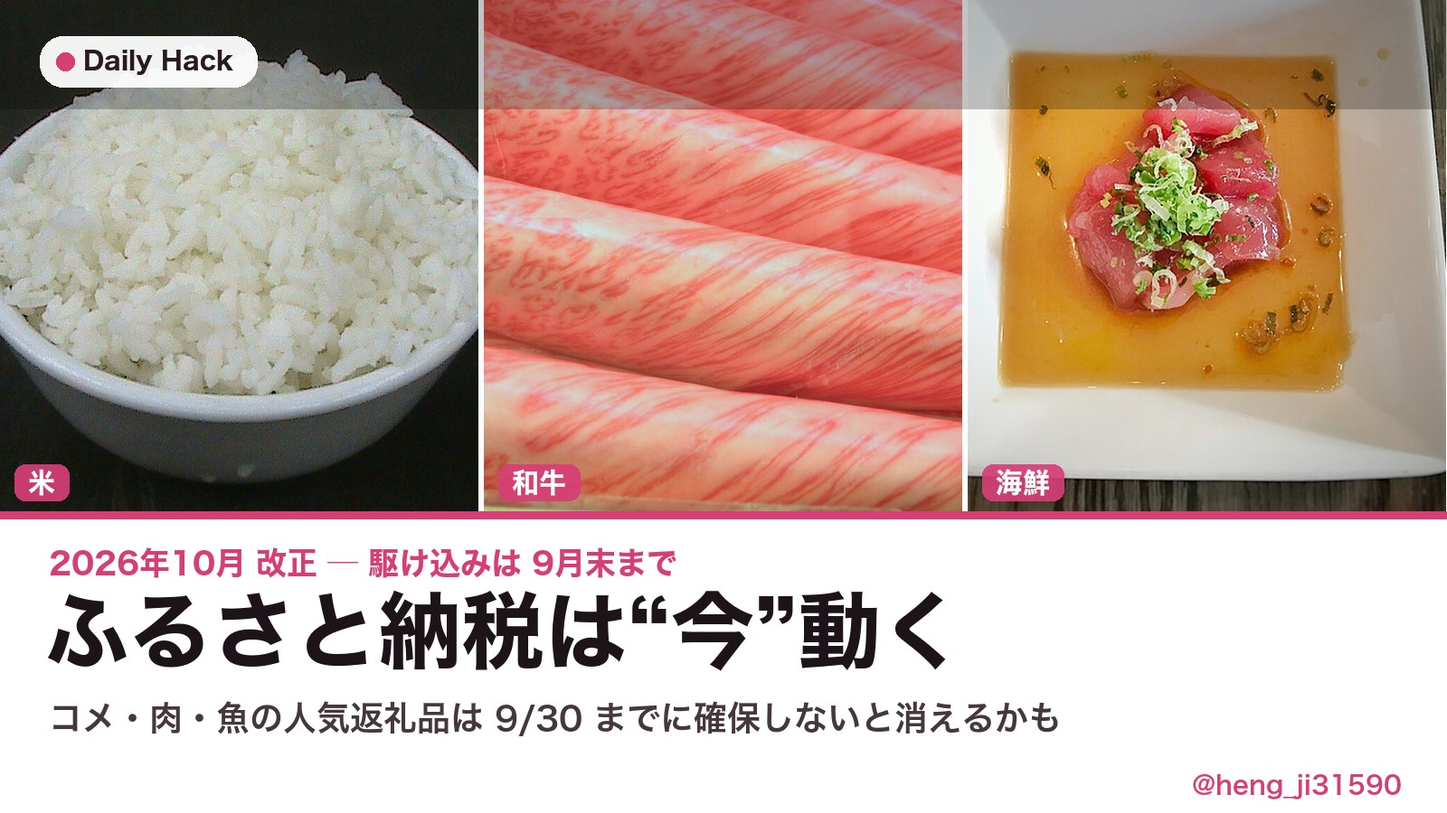
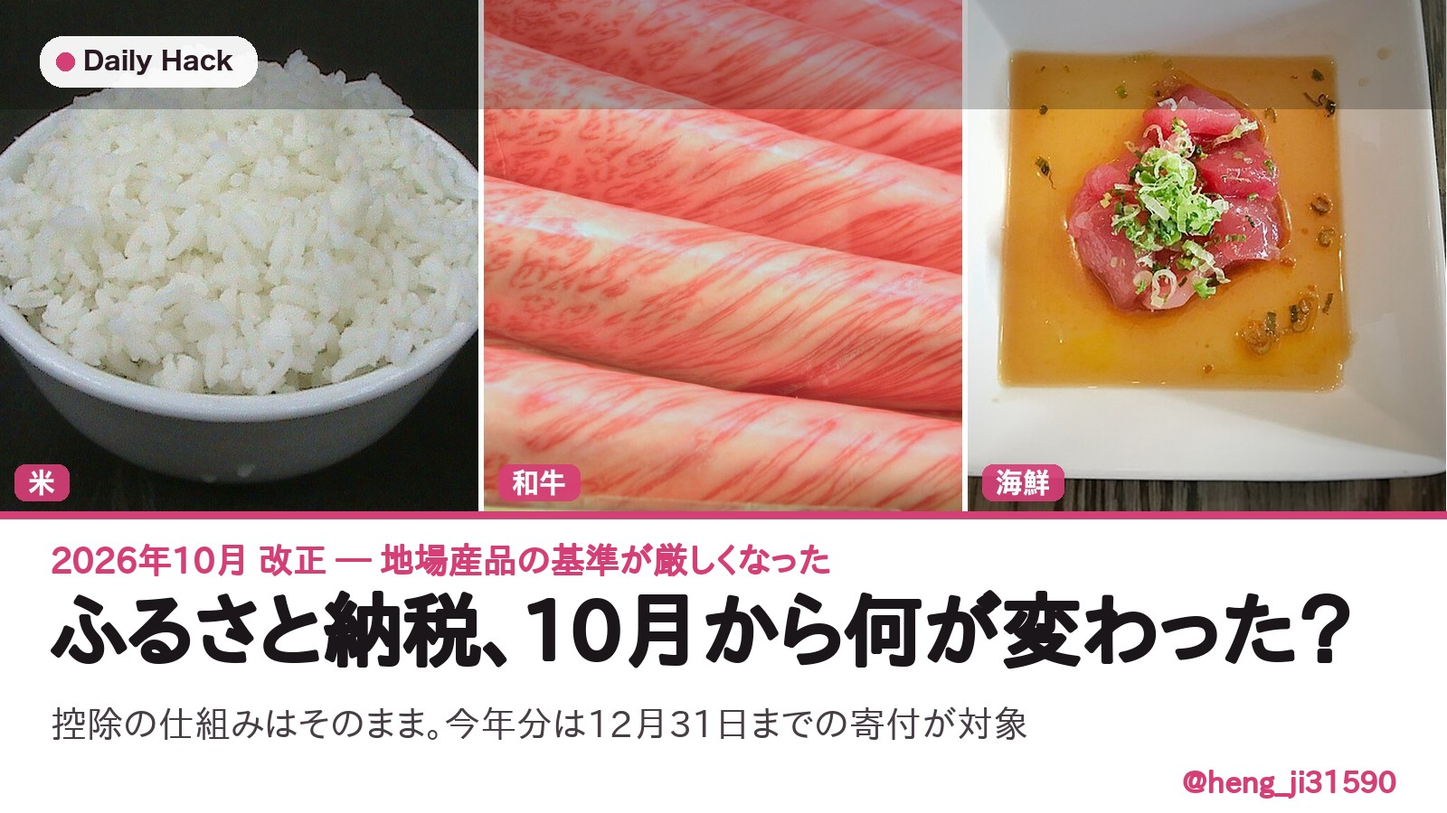
fix: 検索で表示が伸びたのにクリック0の4記事と、ららぽーと記事の題名・見出しを実際の検索語に合わせる
- ふるさと納税: 9/30 期限の内容を 10 月以降向けに書き直し（題名・冒頭・5ステップ・FAQ・まとめ・表紙）
- 東京湾大華火祭: 題名と見出しに「打ち上げ場所」「チケットなし」
- お台場ドローンショー: 全公演終了を題名と見出しに明記、「どこから見える」を見出しに。内部向けの節を削除
- 成田羽田: 「直行便で行ける国・都市一覧」に。題名から「7月時点」を外し本文に残す
- ららぽーと: 大きさ（面積）・店舗数・地域別・一覧（何店舗）の見出しを検索語に合わせ、アンカーを張り直し

根拠は t206（Google の検索候補）と t207（公式ページ）。

Claude-Session: https://claude.ai/code/session_01RqPaqffepEWsiAkvhJEvmW

Changed region(s): [[0.0312, 0.6533, 0.9375, 0.9022], [0.8125, 0.9333, 0.9688, 0.9956]]

diff --git a/scripts/gen-furusato-reform-eyecatch.py b/scripts/gen-furusato-reform-eyecatch.py
@@ -1,0 +1,43 @@
+#!/usr/bin/env python3
+"""ふるさと納税 2026年10月改正の表紙を、10月以降の内容に描き直す（2026-10-04）。
+
+元の表紙は「駆け込みは9月末まで」「9/30 までに確保しないと消えるかも」で、締め切りを過ぎた。
+上段の写真 3 枚（米・和牛・海鮮。出典は記事末の source-note）は元の表紙からそのまま使い、
+下の文字帯だけを描き直す。元画像の写真素材はリポジトリに残っていなかったため。
+
+    python3 scripts/gen-furusato-reform-eyecatch.py <元の表紙> <出力>
+"""
+import sys
+from PIL import Image, ImageDraw, ImageFont
+
+SRC, OUT = sys.argv[1], sys.argv[2]
+B = "/usr/share/fonts/opentype/ipafont-gothic/ipagp.ttf"
+PINK, INK, SUB = (214, 62, 118), (26, 22, 26), (70, 62, 68)
+
+im = Image.open(SRC).convert("RGB")
+W, H = im.size
+d = ImageDraw.Draw(im)
+d.rectangle([0, 575, W, H], fill=(255, 255, 255))   # 下の文字帯（ピンクの線より下）を消す
+
+
+def fit(text, size, maxw):
+    while size > 20:
+        f = ImageFont.truetype(B, size)
+        if d.textlength(text, font=f) <= maxw:
+            return f
+        size -= 2
+    return ImageFont.truetype(B, size)
+
+
+X, MAXW = 56, W - 112
+k = "2026年10月 改正 ─ 地場産品の基準が厳しくなった"
+t = "ふるさと納税、10月から何が変わった？"
+s = "控除の仕組みはそのまま。今年分は12月31日までの寄付が対象"
+d.text((X, 600), k, font=fit(k, 38, MAXW), fill=PINK, stroke_width=1, stroke_fill=PINK)
+d.text((X, 652), t, font=fit(t, 88, MAXW - 8), fill=INK, stroke_width=3, stroke_fill=INK)  # IPA に太字が無いので縁で太らせる
+d.text((X, 780), s, font=fit(s, 40, MAXW), fill=SUB)
+h = "@heng_ji31590"
+fh = ImageFont.truetype(B, 32)
+d.text((W - 56 - d.textlength(h, font=fh), 848), h, font=fh, fill=PINK, stroke_width=1, stroke_fill=PINK)
+im.save(OUT, quality=90)
+print(OUT, im.size)

diff --git a/src/content/posts/furusato-tax-2026-reform-guide.md b/src/content/posts/furusato-tax-2026-reform-guide.md
@@ -1,14 +1,14 @@
 ---
-title: "ふるさと納税2026年10月改正 駆け込みガイド｜“消える返礼品”リストと9月30日までにやる5ステップ"
-description: "2026年10月からふるさと納税の地場産品基準が厳格化。付加価値の過半が区域内でない加工品・工業製品・自治体ロゴ雑貨が返礼品から消える可能性。9月30日までにやるべき駆け込み5ステップと、上限額を超えない安全設計をアタシが解説する。"
+title: "ふるさと納税2026年10月改正｜10月から何が変わった？変更点と年末までにやる5ステップ"
+description: "2026年10月からふるさと納税の地場産品基準が厳格化。付加価値の過半が区域内でない加工品・工業製品・自治体ロゴ雑貨は返礼品にできなくなった。10月以降の変更点と、今年分の締め切り12月31日までにやる5ステップをアタシが解説する。"
 publishDate: 2026-07-04
 category: ["howto", "campaigns"]
-tags: ["ふるさと納税", "2026年改正", "地場産品基準", "駆け込み", "節税", "返礼品", "ワンストップ特例"]
+tags: ["ふるさと納税", "2026年改正", "地場産品基準", "10月以降", "節税", "返礼品", "ワンストップ特例"]
 isPR: true
 draft: false
 featured: true
 eyecatchUrl: "/images/furusato-tax-2026-reform-guide/eyecatch.jpg"
-eyecatchAlt: "ふるさと納税の人気返礼品（米・和牛・海鮮）の写真と、2026年10月改正・駆け込みは9月末までを伝える表紙画像"
+eyecatchAlt: "ふるさと納税の人気返礼品（米・和牛・海鮮）の写真と、2026年10月から何が変わったかを伝える表紙画像"
 author: "hacker-ko"
 source_candidate_id: "C061"
 references:
@@ -16,13 +16,13 @@ references:
   - "https://www.nikkei.com/article/DGXZQOUA23BJA0T20C25A6000000/"
 ---
 
-「ふるさと納税、年末にまとめてやればいいっしょ」——その油断、2026年は通用しないわよ。**10月1日から地場産品の基準が厳しくなる**の。ポイント還元が廃止された（2025年10月）“次の改悪”がこれ。10月以降、**一部の返礼品が掲載終了で消える**可能性が高い。
+「ふるさと納税、10月から何か変わったんでしょ？」「去年と同じ返礼品が見つからないんだけど」——その答えがこれ。**2026年10月から、地場産品の基準が厳しくなった**の。ポイント還元が廃止された（2025年10月）“次の改悪”がこれ。基準に合わない返礼品は、**10月以降は扱えなくなった**。
 
-つまり狙ってた返礼品があるなら、**9月30日までが実質の駆け込み期限**。今日は「何が消えるのか」を先回りでリスト化して、9月末までにやるべき5ステップと、上限額をオーバーしない安全設計まで置いていく。ボーナスで資金に余裕がある今こそ動く時よ 😏
+でも慌てなくていい。**控除の仕組みは変わっていない**し、今年分の締め切りは**12月31日**。今日は「何が変わったのか」と「どのジャンルに影響が出るのか」を整理して、年末までにやる5ステップと、上限額をオーバーしない安全設計まで置いていく 😏
 
 <div class="hakkako-says">
   <div class="hakkako-mascot"><img src="/images/expr-09-arms-crossed.png" alt="Daily Hackマスコット" /></div>
-  <div class="hakkako-quote">先に結論。<strong>「加工品・工業製品・雑貨系」で欲しい返礼品があるなら、9月中に確保しなさい。</strong>米・肉・果物みたいな“ザ・地場産”は影響が小さいけど、県外原料の加工品や自治体ロゴだけの雑貨は10月に消えるリスクが高い。控除の仕組み自体は変わらないから、慌てず上限内でね。</div>
+  <div class="hakkako-quote">先に結論。<strong>影響を受けたのは「加工品・工業製品・雑貨系」。</strong>米・肉・果物みたいな“ザ・地場産”は影響が小さい。去年の返礼品が見当たらないなら、県外原料の加工品や自治体ロゴだけの雑貨だった可能性が高いわ。控除の仕組み自体は変わらないから、慌てず上限内でね。</div>
 </div>
 
 <aside class="related-block">
@@ -55,7 +55,7 @@ references:
   </ul>
 </aside>
 
-## 結論: 2026年10月、ふるさと納税はこう変わる
+## 結論: 2026年10月から、ふるさと納税はこう変わった
 
 まず改正の中身。総務省が地場産品の基準を厳しくする、というのが柱。**「その土地で作った物か」をこれまで以上に厳格に問う**内容よ。
 
@@ -70,7 +70,7 @@ references:
 
 <div class="section-with-mascot">
   <div class="mascot-wrap"><img src="/images/expr-07-gasp.png" alt="" /></div>
-  <h2>“消えるかもしれない返礼品” を先回りで見分ける</h2>
+  <h2 id="影響を受けた返礼品">10月以降に影響を受けた返礼品の見分け方</h2>
 </div>
 
 全部が消えるわけじゃない。**影響が大きいジャンルと、ほぼ無風のジャンル**を分けて考えるのがコツ。
@@ -78,15 +78,15 @@ references:
 <div class="compare-cards">
   <article class="compare-card">
     <span class="compare-card-mascot"><img src="/images/expr-06-shock.png" alt="" /></span>
-    <h3>⚠ 消えるリスクが高い</h3>
-    <p class="tagline">「その土地で作った」の証明が弱いジャンル。欲しいなら9月中に。</p>
+    <h3>⚠ 影響が大きい</h3>
+    <p class="tagline">「その土地で作った」の証明が弱いジャンル。10月以降は扱えなくなったものがある。</p>
     <dl>
       <dt>加工品</dt><dd>県外原料を域内で軽く加工しただけの食品・惣菜</dd>
       <dt>工業製品</dt><dd>家電・日用雑貨・工具など“付加価値の過半”証明が難しい物</dd>
       <dt>ロゴ雑貨</dt><dd>自治体名を入れただけのグッズ・アパレル</dd>
       <dt>汎用品</dt><dd>地場性の薄い量産品全般</dd>
     </dl>
-    <p class="compare-best">※狙ってるなら<strong>9月30日まで</strong>に寄付を完了させるのが安全</p>
+    <p class="compare-best">※去年と同じ物を探すなら、<strong>まず掲載が続いているか</strong>を確かめる</p>
   </article>
   <article class="compare-card recommended">
     <span class="compare-card-mascot"><img src="/images/expr-05-smug.png" alt="" /></span>
@@ -107,7 +107,7 @@ references:
   <h2>🧮 控除上限シミュレータ（年収×家族構成でざっくり）</h2>
 </div>
 
-楽天・さとふる・ふるなびの「かんたんシミュレーション」と同じ考え方で、**年収と家族構成から「自己負担2,000円で寄付できる上限額」の目安**を出すツールを置いておくわ。まず自分の枠を掴んでから、上の駆け込み判断に戻ってきなさい。
+楽天・さとふる・ふるなびの「かんたんシミュレーション」と同じ考え方で、**年収と家族構成から「自己負担2,000円で寄付できる上限額」の目安**を出すツールを置いておくわ。まず自分の枠を掴んでから、返礼品を選びなさい。
 
 <div class="fs-sim">
   <div class="fs-row">
@@ -193,15 +193,15 @@ references:
 
 <div class="section-with-mascot">
   <div class="mascot-wrap"><img src="/images/expr-05-smug.png" alt="" /></div>
-  <h2>9月30日までにやる「駆け込み5ステップ」</h2>
+  <h2 id="年末までにやる5ステップ">12月31日までにやる5ステップ</h2>
 </div>
 
-やることは多くない。この順番でこなせば、駆け込みでも失敗しない。
+やることは多くない。この順番でこなせば、年末でも失敗しない。
 
 1. **今年の控除上限額を計算する。** 年収・家族構成・他の控除でざっくり出す（各ポータルのシミュレーターでOK）。ボーナス確定後の見込み年収で。
 2. **上限の“90〜95%”をラインに設定する。** 年収が未確定な時点では、上限ぴったりを狙うと超過リスク。**少し手前で止める**のが安全設計。
-3. **消えるリスクの高い返礼品を先に確保する。** 加工品・工業製品・ロゴ雑貨で欲しい物は、9月中に寄付を完了。
-4. **王道（米・肉・海鮮・果物）は残り枠で年末に回す。** 影響が小さいので急がない。定期便で分割到着させると使い勝手が良い。
+3. **欲しかった返礼品が残っているか確かめる。** 加工品・工業製品・ロゴ雑貨は、10月以降は扱えなくなった物がある。見つからなければ同じ自治体の別の返礼品を探す。
+4. **王道（米・肉・海鮮・果物）を残り枠で選ぶ。** 改正の影響が小さいジャンル。定期便で分割到着させると使い勝手が良い。
 5. **ワンストップ特例 or 確定申告の準備をする。** 5自治体以内ならワンストップ特例申請書を提出（期限は翌年1月10日必着）。6自治体以上は確定申告。
 
 <div class="hakkako-says">
@@ -209,7 +209,7 @@ references:
   <div class="hakkako-quote">よくある事故が「上限を超えて自己負担が増える」パターン。<strong>年収が確定してない夏〜秋は、上限見込みの9割で止めるのが鉄則</strong>よ。あと、ポイント還元は2025年10月にもう廃止されてるから、「サイトのポイントで選ぶ」時代は終わったの。今は<strong>返礼品そのものの価値と、決済で貯まる通常ポイント</strong>で選びなさい。</div>
 </div>
 
-## どのポータルで駆け込む？
+## どのポータルで寄付する？
 
 ポイント付与は禁止されたけど、**クレジットカード決済で貯まる“通常ポイント”は今まで通り**。使い慣れたポータル＋高還元カードの組み合わせが実質的にお得。主要どころはこれ。
 
@@ -219,7 +219,7 @@ references:
     <p class="tagline">楽天ユーザーの本命。楽天カード決済＋SPUで通常ポイントが厚い。</p>
     <dl>
       <dt>強み</dt><dd>楽天市場と同じ操作感・楽天ポイントが貯まる/使える</dd>
-      <dt>向く人</dt><dd>楽天経済圏の人・9月の楽天SSに合わせたい人</dd>
+      <dt>向く人</dt><dd>楽天経済圏の人・楽天のセールに合わせて寄付したい人</dd>
     </dl>
     <a class="compare-cta" href="https://event.rakuten.co.jp/furusato/" target="_blank" rel="sponsored noopener nofollow">楽天ふるさと納税を見る →</a>
   </article>
@@ -241,22 +241,22 @@ references:
   <table class="cmp-table spec-table faq-table">
     <tbody>
       <tr><th>10月以降、ふるさと納税はもうお得じゃない？</th><td>そんなことない。<strong>控除の仕組み（自己負担2,000円で寄付額が控除）は一切変わらない</strong>。変わるのは「返礼品として認められる品の基準」。王道の食品系は引き続き強いから、お得さの本質は健在よ。</td></tr>
-      <tr><th>9月に駆け込まないと損する？</th><td>損するとは限らない。<strong>加工品・工業製品・ロゴ雑貨で“狙ってる物がある人だけ”9月中に確保</strong>すればいい。米・肉・果物狙いなら年末でも基本OK。</td></tr>
+      <tr><th>今年分はいつまでに寄付すればいい？</th><td><strong>12月31日まで</strong>の寄付が今年の控除の対象。ワンストップ特例の申請書は<strong>翌年1月10日必着</strong>。年末は混むので、余裕を持って済ませるのが安全。</td></tr>
       <tr><th>ポイント還元がないなら、どこで寄付しても同じ？</th><td>サイト独自のポイント付与は禁止だけど、<strong>クレカ決済の通常ポイント</strong>は貯まる。使い慣れたポータル×高還元カードの組み合わせで、実質の取り分が変わる。</td></tr>
       <tr><th>上限額って超えたらどうなる？</th><td>上限を超えたぶんは<strong>ただの寄付（控除されず自己負担）</strong>になる。だから年収未確定の今は<strong>見込みの9割</strong>で止めるのが安全。年末に確定してから残り枠を使いなさい。</td></tr>
     </tbody>
   </table>
 </div>
-## まとめ — 「消える物は9月に、王道は年末に」
+## まとめ — 「10月から変わったのは返礼品の基準。控除はそのまま」
 
 2026年10月の改正を一言でまとめると、**「その土地で本当に作った物か」を厳しく問う年**。狙い目はシンプル。
 
-- **加工品・工業製品・ロゴ雑貨で欲しい物** → **9月30日まで**に確保
-- **米・肉・海鮮・果物の王道** → 影響小。年末に残り枠で回す
+- **加工品・工業製品・ロゴ雑貨** → 10月以降は扱えなくなった物がある。掲載が続いているかを確かめる
+- **米・肉・海鮮・果物の王道** → 影響小。**12月31日まで**に残り枠で選ぶ
 - <strong>上限は見込みの90〜95%</strong>で止めて超過事故を防ぐ
 - ポイント付与は廃止済み → **返礼品の価値＋決済の通常ポイント**で選ぶ
 
-制度は厳しくなるけど、使い方さえ間違えなければふるさと納税は今年もしっかりお得。**カレンダーに「9月末」って書いときなさい** 😏
+制度は厳しくなったけど、使い方さえ間違えなければふるさと納税は今年もしっかりお得。**カレンダーに「12月31日」って書いときなさい** 😏
 
 > 関連 → [ふるさと納税の始め方 2026](/posts/furusato-tax-beginner-guide-2026/) ／ [食品返礼品おすすめ15選](/posts/furusato-tax-food-picks-2026/) ／ [日用品返礼品おすすめ10選](/posts/furusato-tax-daily-goods-2026/)
 

diff --git a/src/content/posts/odaiba-drone-show-2026.md b/src/content/posts/odaiba-drone-show-2026.md
@@ -1,5 +1,5 @@
 ---
-title: "お台場ドローンショー 2026 完全まとめ｜全3公演・22回の日程と時間【観覧無料】"
+title: "お台場ドローンショー2026｜全3公演は終了。日程・時間・見える場所と中止の確認先まとめ【観覧無料】"
 description: "2026年にお台場で開かれるドローンショーは3本・公演日12日・全22回。日程／時間／機数／観覧場所と、Pixel Moonに出る6つのIP（ソニック・ペルソナ・ゴジラ-0.0ほか）まで。お月見なのに中秋の名月には終わっている。"
 publishDate: 2026-08-27
 category: ["wangan-life", "roundups"]
@@ -110,7 +110,7 @@ references: ["https://odaibadrone.com/", "https://www.tokyo-odaiba.net/event_tou
 
 <div class="section-with-mascot">
   <div class="mascot-wrap"><img src="/images/expr-04-cheer.png" alt="Daily Hackマスコット" /></div>
-  <h2 id="aqua">② 東京アクアシンフォニー × ドローンショー（8/29・8/30）</h2>
+  <h2 id="aqua">② 東京アクアシンフォニー × ドローンショー（8/29・8/30｜終了）</h2>
 </div>
 
 <figure class="rn-figure">
@@ -136,7 +136,7 @@ references: ["https://odaibadrone.com/", "https://www.tokyo-odaiba.net/event_tou
 
 <div class="section-with-mascot">
   <div class="mascot-wrap"><img src="/images/expr-05-smug.png" alt="Daily Hackマスコット" /></div>
-  <h2 id="pixel-moon">③ ODAIBA DRONE SHOW 2026「Pixel Moon」（9/4〜9/22）</h2>
+  <h2 id="pixel-moon">③ ODAIBA DRONE SHOW 2026「Pixel Moon」（9/4〜9/22｜終了）</h2>
 </div>
 
 <div class="cmp-table-wrap">
@@ -258,7 +258,7 @@ references: ["https://odaibadrone.com/", "https://www.tokyo-odaiba.net/event_tou
 
 <div class="section-with-mascot">
   <div class="mascot-wrap"><img src="/images/expr-03-bashful.png" alt="Daily Hackマスコット" /></div>
-  <h2 id="アクセス">会場とアクセス｜台場海浜公園「マリンハウス前」</h2>
+  <h2 id="アクセス">どこから見える？会場とアクセス｜台場海浜公園「マリンハウス前」</h2>
 </div>
 
 <figure class="rn-figure">
@@ -299,25 +299,6 @@ references: ["https://odaibadrone.com/", "https://www.tokyo-odaiba.net/event_tou
       <tr><td>公演日・時刻</td><td><a href="https://odaibadrone.com/" target="_blank" rel="noopener">ODAIBA DRONE SHOW 2026 公式</a>のカレンダー</td></tr>
       <tr><td>当日の実施可否</td><td>公式SNS。<strong>公演の数時間前に出る</strong></td></tr>
       <tr><td>観覧場所と混雑</td><td>公式のアクセスページ。<strong>まとめ記事では分からない</strong></td></tr>
-    </tbody>
-  </table>
-</div>
-
-<div class="section-with-mascot">
-  <div class="mascot-wrap"><img src="/images/expr-03-bashful.png" alt="Daily Hackマスコット" /></div>
-  <h2 id="分からないと書いたこと">この記事で「分からない」と書いたこと</h2>
-</div>
-
-**埋められなかったところを、埋めたふりで書かない。**
-
-<div class="cmp-table-wrap">
-  <table class="cmp-table wrap-table">
-    <thead><tr><th>項目</th><th>状態</th></tr></thead>
-    <tbody>
-      <tr><td>A と B の中身の違い</td><td>公式は「2種類の TRACK を用意」としか出していない。<strong>どちらにどのコンテンツが入るかは未発表</strong></td></tr>
-      <tr><td>混雑と場所取り</td><td>会場と最寄駅は<a href="#アクセス">確認できた</a>が、<strong>どのくらい前に行けば見やすい場所を取れるかは分からない。</strong>公式も推奨の観覧位置までは出していない</td></tr>
-      <tr><td>東京アクアシンフォニーの正確な会場</td><td>お台場の噴水エリアであることまで。区画名の裏が取れていない</td></tr>
-      <tr><td>この3本で全部か</td><td><strong>言い切れない。</strong>お台場では単発のドローン演出が別枠で行われることがあり、小規模なものは落ちている可能性がある</td></tr>
     </tbody>
   </table>
 </div>

diff --git a/src/content/posts/tokyo-bay-hanabi-2026.md b/src/content/posts/tokyo-bay-hanabi-2026.md
@@ -1,5 +1,5 @@
 ---
-title: "東京湾大華火祭2026 完全ガイド｜10/24開催・完全チケット制。一般先着の買い方と全21会場の選び方"
+title: "東京湾大華火祭2026｜10/24開催。打ち上げ場所とチケットの買い方（一般先着）、全21会場の見え方"
 description: "東京湾大華火祭が11年ぶりに復活。2026年10月24日(土)17:30〜、約12,000発。完全チケット制で当日券なし。区民優先の抽選は終了し、いまは一般先着（10月24日10:00まで）。全21会場のランク・料金・見え方の違いと、申込手順を晴海在住のアタシがガイドする。"
 publishDate: 2026-07-05
 category: ["wangan-life", "campaigns"]
@@ -56,7 +56,7 @@ references:
   </ul>
 </aside>
 
-## 開催概要｜11年ぶりの復活
+## 開催概要｜日時・打ち上げ場所・発数（11年ぶりの復活）
 
 | 項目 | 内容 |
 |---|---|
@@ -213,7 +213,7 @@ references:
       <tr><th>区民だと何がお得？</th><td><strong>該当区の会場が5,000円割引</strong>＋<strong>一般より先に抽選申込</strong>できる。人気の特等席を先に押さえられるのが最大のメリット。</td></tr>
       <tr><th>席のランク（A / S / SS）の違いは？</th><td><strong>A＝標準席、S/SS＝特等席</strong>で、打上げに近い正面クラスがS/SS。料金も見え方も変わる。<strong>下の早見表で会場ごとのランクを比べて選んで。</strong></td></tr>
       <tr><th>一般（区民以外）でも観られる？</th><td>観られる。<strong>9月9日10:00から先着</strong>で一般席（豊洲・有明エリア中心）を販売。ただし完全チケット制で当日券はないので、早めの購入を。</td></tr>
-      <tr><th>無料で観られる場所はある？</th><td>今回は<strong>完全チケット制で無料観覧席はなし</strong>。歩道での立ち止まり観覧も不可。</td></tr>
+      <tr><th>チケットなし・無料で観られる場所はある？</th><td>今回は<strong>完全チケット制で無料観覧席はなし</strong>。歩道での立ち止まり観覧も不可。</td></tr>
     </tbody>
   </table>
 </div>

diff --git a/src/content/posts/narita-haneda-overseas-direct-2026.md b/src/content/posts/narita-haneda-overseas-direct-2026.md
@@ -1,5 +1,5 @@
 ---
-title: "成田・羽田から直行便で行ける海外まとめ｜JAL・ANAの就航都市を公式確認【2026年7月時点】"
+title: "羽田・成田の直行便で行ける国・都市一覧【2026年】JAL・ANAの就航先を空港別・エリア別に"
 description: "成田(NRT)と羽田(HND)、それぞれから直行便でどこの海外へ行ける？JAL・ANAの公式路線情報を直接確認して、就航都市を空港別・エリア別に整理。欧州はもう羽田が中心、成田はアジア＆レジャー＆一部長距離…という“いまの地図”が一目で分かる。運休路線・コードシェアの扱いも正直に明記。※2026年7月時点。"
 publishDate: 2026-07-19
 category: ["howto"]
@@ -43,7 +43,7 @@ references:
 
 <p class="source-note">※最終確定は各社の予約サイト・国際線時刻表で日付を指定して確認するのが確実です。季節運航・臨時運休・機材変更があります。</p>
 
-## ✈ 羽田（HND）発 — 直行便で行ける海外
+## ✈ 羽田（HND）発の直行便一覧｜行ける国・都市
 
 <h3 class="brand-h" id="hnd-jal"><img class="brand-logo" src="/images/narita-haneda-overseas-direct-2026/logos/jal.png" alt="JAL のロゴ" loading="lazy" /><span>JAL（羽田発・自社運航直行便）</span></h3>
 
@@ -71,7 +71,7 @@ references:
 
 <p class="source-note">開設延期：サンノゼ・モスクワ（＝現時点で運航なし）。出典: <a href="https://www.ana.co.jp/ja/us/plan-book/routes/international-route-information/">ANA 国際線就航都市</a>（2026年3月29日〜10月24日ダイヤ／2026年7月確認）。</p>
 
-## ✈ 成田（NRT）発 — 直行便で行ける海外
+## ✈ 成田（NRT）発の直行便一覧｜行ける国・都市
 
 <h3 class="brand-h" id="nrt-jal"><img class="brand-logo" src="/images/narita-haneda-overseas-direct-2026/logos/jal.png" alt="JAL のロゴ" loading="lazy" /><span>JAL（成田発・自社運航直行便）</span></h3>
 

diff --git a/docs/session-handoff.md b/docs/session-handoff.md
@@ -68,6 +68,12 @@
 
 <!-- 新しい記録がこの下に追加される（新しいものが上） -->
 
+### 2026-10-04 — 検索で表示が伸びたのにクリック0の4記事と、ららぽーと記事の題名・見出しを、検索候補（t206）と公式情報（t207）に合わせて直した。ふるさと納税は9/30期限の内容を10月以降向けに書き直し、表紙も描き直し（scripts/gen-furusato-reform-eyecatch.py）。ドローンショーは全公演終了を明記し内部向けの節を削除。月次のアクセス分析ルーティン（trig_01R6X7hNwvoGnAdNf72XyV52・毎月4日6:52 JST）を登録
+
+次のアクション:
+
+- [ ] 直した5記事の検索順位・クリックは11月4日の月次分析で確認する
+
 ### 2026-10-04 — x225: アンフォローの実際のルールを確認（follow-balance 11:45/18:45・片思い・猶予7日・1回20件／reply-followback-check は判定と予定日を書くだけで外すジョブは止まっていて期日超え371件／相互に外された人の見張りは無し）。指定のアカウントは今も相互。x227 で follow-balance に『外されたら外し返す（フォロワーを読み切れたときだけ前回と比べる）』『期日超えのフォロバ無しを優先』『reply-followers への書き戻し』を足した（ジョブは走らせていない）
 
 次のアクション:
